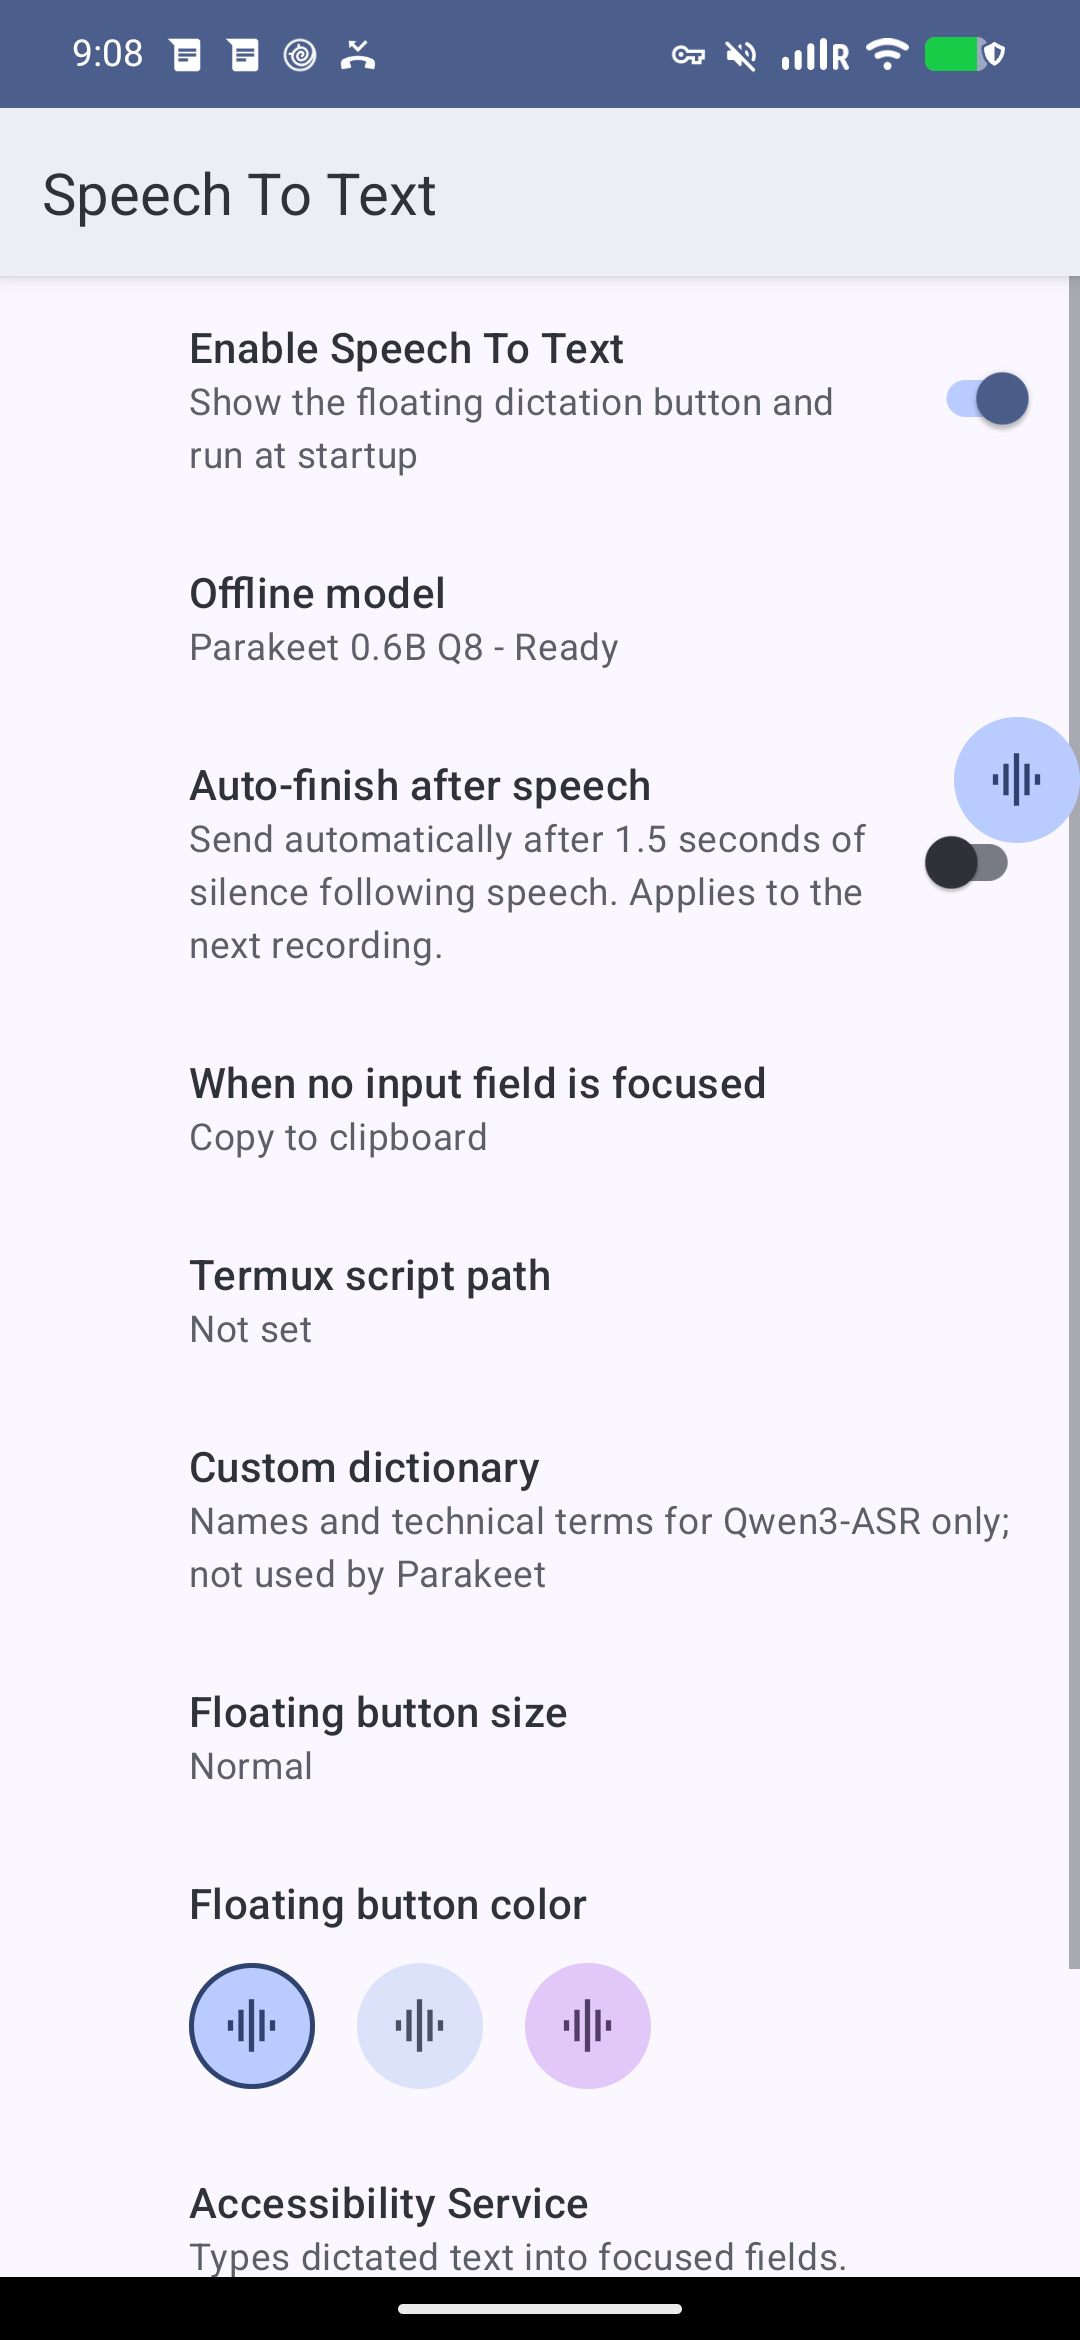
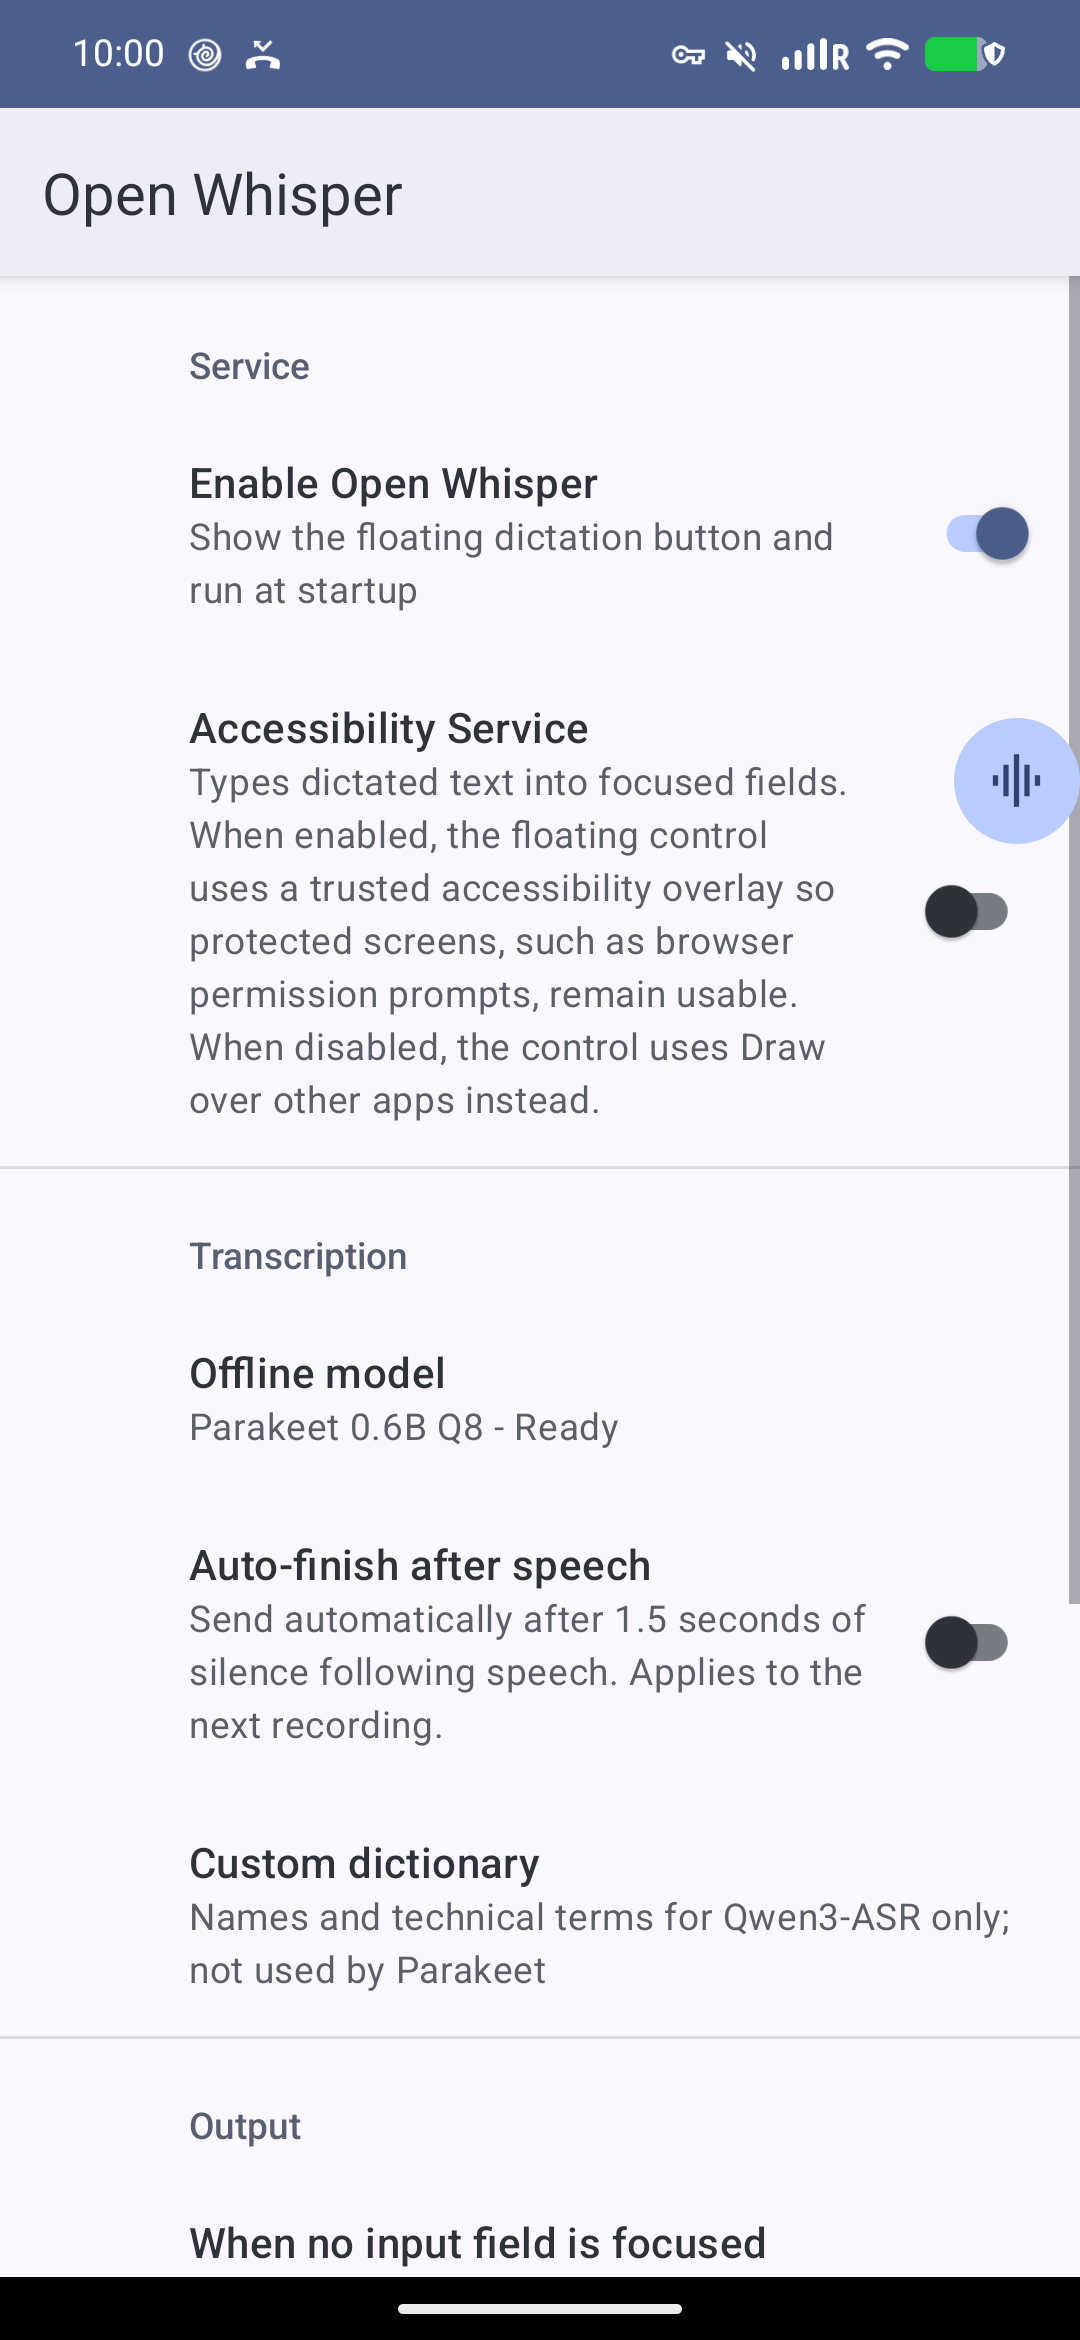
Harden demo capture automation

diff --git a/scripts/capture_demo.py b/scripts/capture_demo.py
@@ -1,10 +1,10 @@
 """Run the UI Automator documentation flow and collect its screenshots."""
 
 import argparse
+from contextlib import contextmanager
 import os
 from pathlib import Path
 import re
-import shlex
 import shutil
 import subprocess
 import sys
@@ -12,6 +12,13 @@ import time
 
 ROOT = Path(__file__).resolve().parents[1]
 PACKAGE = "com.ross.speechtotext"
+ACCESSIBILITY_SERVICE = PACKAGE + "/" + PACKAGE + ".TypeAccessibilityService"
+ACCESSIBILITY_ALIASES = {ACCESSIBILITY_SERVICE, PACKAGE + "/.TypeAccessibilityService"}
+CAPTURE_SETTINGS = [
+    ("system", "accelerometer_rotation", "0"),
+    ("system", "user_rotation", "0"),
+    ("secure", "accessibility_enabled", "1"),
+]
 
 
 def run(command, **kwargs):
@@ -26,21 +33,46 @@ def save_png(path, data):
     print(path)
 
 
-def reconnect_accessibility(adb):
-    # Instrumentation kills the app process. Rebind its already-enabled service.
-    setting = ["shell", "settings", "get", "secure", "enabled_accessibility_services"]
-    original = run(adb + setting, capture_output=True, text=True).stdout.strip()
-    services = original.split(":")
-    component = PACKAGE + "/" + PACKAGE + ".TypeAccessibilityService"
-    if component not in services:
-        return
-    services.remove(component)
-    put = adb + ["shell", "settings", "put", "secure", "enabled_accessibility_services"]
+def get_setting(adb, namespace, name):
+    return run(adb + ["shell", "settings", "get", namespace, name],
+               capture_output=True, text=True).stdout.strip()
+
+
+def set_setting(adb, namespace, name, value):
+    action = "delete" if value in ("", "null") else "put"
+    command = adb + ["shell", "settings", action, namespace, name]
+    run(command + ([] if action == "delete" else [value]), capture_output=True)
+
+
+@contextmanager
+def configured_device(adb):
+    original = {(namespace, name): get_setting(adb, namespace, name)
+                for namespace, name, _ in CAPTURE_SETTINGS}
+    original_services = get_setting(adb, "secure", "enabled_accessibility_services")
+    locale_output = run(adb + ["shell", "cmd", "locale", "get-app-locales", PACKAGE],
+                        capture_output=True, text=True).stdout.strip()
+    original_locales = locale_output.rsplit("[", 1)[-1].removesuffix("]")
+    services = [] if original_services in ("", "null") else original_services.split(":")
+    if ACCESSIBILITY_SERVICE not in services:
+        services.append(ACCESSIBILITY_SERVICE)
     try:
-        run(put + [shlex.quote(":".join(services))], capture_output=True)
-        time.sleep(0.3)
+        run(adb + ["shell", "cmd", "locale", "set-app-locales", PACKAGE,
+                   "--user", "0", "--locales", "en-US"])
+        for namespace, name, value in CAPTURE_SETTINGS:
+            set_setting(adb, namespace, name, value)
+        set_setting(adb, "secure", "enabled_accessibility_services", ":".join(services))
+        yield
     finally:
-        run(put + [shlex.quote(original)], capture_output=True)
+        run(adb + ["shell", "cmd", "locale", "set-app-locales", PACKAGE,
+                   "--user", "0", "--locales", original_locales])
+        for (namespace, name), value in original.items():
+            set_setting(adb, namespace, name, value)
+        # Toggling reconnects a service killed by instrumentation.
+        if any(service in ACCESSIBILITY_ALIASES for service in original_services.split(":")):
+            remaining = [service for service in services if service not in ACCESSIBILITY_ALIASES]
+            set_setting(adb, "secure", "enabled_accessibility_services", ":".join(remaining))
+            time.sleep(0.3)
+        set_setting(adb, "secure", "enabled_accessibility_services", original_services)
 
 
 def main():
@@ -78,35 +110,34 @@ def main():
                      "-e", "demo", str(args.demo).lower(),
                      "-e", "video", str(args.video).lower(),
                      PACKAGE + ".test/androidx.test.runner.AndroidJUnitRunner"]
-    try:
-        for apk in apks:
-            run(adb + ["install", "-r", str(apk)])
-        result = run(command, capture_output=True, text=True)
-        print(result.stdout)
-        # am instrument can return zero even when the test fails.
-        if "OK (1 test)" not in result.stdout:
-            raise RuntimeError("UI Automator capture failed; see instrumentation output above")
-        for name in ["01-ready", "02-models"]:
-            data = run(adb + ["exec-out", "run-as", PACKAGE, "cat",
-                              f"files/screenshots/{name}.png"], capture_output=True).stdout
-            save_png(args.output / f"{name}.png", data)
-        if args.video:
-            raw = args.output / "demo-silent.mp4"
-            run(adb + ["pull", "/data/local/tmp/speechtotext-demo.mp4", str(raw)])
-            offset = float(run(adb + ["exec-out", "run-as", PACKAGE, "cat",
-                                      "files/screenshots/voice-offset.txt"], capture_output=True, text=True).stdout)
-            video = args.output / "demo.mp4"
-            run(["ffmpeg", "-hide_banner", "-loglevel", "error", "-y", "-i", str(raw),
-                 "-itsoffset", str(offset), "-i", str(ROOT / "app/src/androidTest/assets/demo-message.wav"),
-                 "-map", "0:v:0", "-map", "1:a:0", "-c:v", "copy", "-c:a", "aac",
-                 "-af", "apad", "-shortest", "-movflags", "+faststart", str(video)])
-            raw.unlink()
-            print(video)
-    finally:
-        # Instrumentation ends the app process; restart its normal UI and overlay.
-        run(adb + ["shell", "am", "start", "-W", "-n", PACKAGE + "/.MainActivity"],
-            capture_output=True)
-        reconnect_accessibility(adb)
+    for apk in apks:
+        run(adb + ["install", "-r", str(apk)])
+    with configured_device(adb):
+        try:
+            result = run(command, capture_output=True, text=True)
+            print(result.stdout)
+            # am instrument can return zero even when the test fails.
+            if "OK (1 test)" not in result.stdout:
+                raise RuntimeError("UI Automator capture failed; see instrumentation output above")
+            for name in ["01-ready", "02-models"]:
+                data = run(adb + ["exec-out", "run-as", PACKAGE, "cat",
+                                  f"files/screenshots/{name}.png"], capture_output=True).stdout
+                save_png(args.output / f"{name}.png", data)
+            if args.video:
+                raw = args.output / "demo-silent.mp4"
+                run(adb + ["pull", "/data/local/tmp/speechtotext-demo.mp4", str(raw)])
+                offset = float(run(adb + ["exec-out", "run-as", PACKAGE, "cat",
+                                          "files/screenshots/voice-offset.txt"], capture_output=True, text=True).stdout)
+                video = args.output / "demo.mp4"
+                run(["ffmpeg", "-hide_banner", "-loglevel", "error", "-y", "-i", str(raw),
+                     "-itsoffset", str(offset), "-i", str(ROOT / "app/src/androidTest/assets/demo-message.wav"),
+                     "-map", "0:v:0", "-map", "1:a:0", "-c:v", "copy", "-c:a", "aac",
+                     "-af", "apad", "-shortest", "-movflags", "+faststart", str(video)])
+                raw.unlink()
+                print(video)
+        finally:
+            run(adb + ["shell", "am", "start", "-W", "-n", PACKAGE + "/.MainActivity"],
+                capture_output=True)
 
 
 if __name__ == "__main__":

diff --git a/app/src/androidTest/java/com/ross/speechtotext/DemoCaptureTest.java b/app/src/androidTest/java/com/ross/speechtotext/DemoCaptureTest.java
@@ -70,19 +70,21 @@ public class DemoCaptureTest {
         capture("01-ready");
         require(By.text("Offline model")).click();
         try {
-            require(By.text("Done"));
+            require(By.text("Qwen3-ASR 0.6B Q8 - Multilingual"));
             capture("02-models");
         } finally {
-            require(By.text("Done")).click();
+            device.pressBack();
         }
         if ("true".equals(arguments.getString("demo"))) captureMessageDemo(context);
     }
 
     private void captureMessageDemo(Context context) throws Exception {
         reconnectAccessibility(context);
-        assertFalse("Turn off Auto-finish after speech for the demo",
-                androidx.preference.PreferenceManager.getDefaultSharedPreferences(context)
-                        .getBoolean("auto_finish_speech", false));
+        android.content.SharedPreferences preferences = androidx.preference.PreferenceManager
+                .getDefaultSharedPreferences(context);
+        boolean hadAutoFinish = preferences.contains("auto_finish_speech");
+        boolean autoFinish = preferences.getBoolean("auto_finish_speech", false);
+        preferences.edit().putBoolean("auto_finish_speech", false).commit();
         context.startActivity(new Intent(context, DemoChatActivity.class).addFlags(Intent.FLAG_ACTIVITY_NEW_TASK));
         require(By.desc("Message Alex")).click();
         require(By.desc("Start dictation")).drag(new android.graphics.Point(
@@ -145,6 +147,10 @@ public class DemoCaptureTest {
                     require(By.desc("Message Alex")).wait(Until.textMatches("(|Message Alex)"), TIMEOUT));
             if (videoPid != null) SystemClock.sleep(2_000); // Let the viewer read the result.
         } finally {
+            android.content.SharedPreferences.Editor editor = preferences.edit();
+            if (hadAutoFinish) editor.putBoolean("auto_finish_speech", autoFinish);
+            else editor.remove("auto_finish_speech");
+            editor.commit();
             player.release();
             audio.setStreamVolume(AudioManager.STREAM_MUSIC, volume, 0);
             if (recording) require(By.desc("Cancel dictation")).click();

diff --git a/docs/demo.md b/docs/demo.md
@@ -6,8 +6,6 @@ The demo uses AndroidX UI Automator to play a bundled voice clip into the microp
 
 - An unlocked, authorized phone
 - The debug app and a downloaded model
-- Accessibility Service enabled
-- Auto-finish after speech disabled
 - The [development requirements](development.md), Python 3, and `adb`
 - FFmpeg when recording video
 
@@ -24,7 +22,8 @@ run_script repos/SpeechToText/scripts/capture_demo.py --serial DEVICE --video
 
 `--video` saves `docs/screenshots/demo.mp4` with the bundled voice track. Recording starts in the chat and ends after the message is sent. Upload the MP4 through GitHub's README editor and put its attachment URL on its own line for inline playback.
 
-Output is written to `docs/screenshots/`. The launcher reinstalls the debug APKs without clearing app data and reconnects the already-enabled accessibility service after testing.
+Output is written to `docs/screenshots/`. The launcher reinstalls the debug APKs without clearing app data.
+It temporarily selects English, locks portrait orientation, enables accessibility, and disables auto-finish. The original phone and app settings are restored afterward.
 
 Only the two settings screenshots are saved. Use `--demo` to also check the message flow without video, or omit both flags for settings only. Use `--current NAME` for an extra screen without running tests, or `--output DIR` for another destination. Extend `app/src/androidTest/java/com/ross/speechtotext/DemoCaptureTest.java` for new flows.
 
